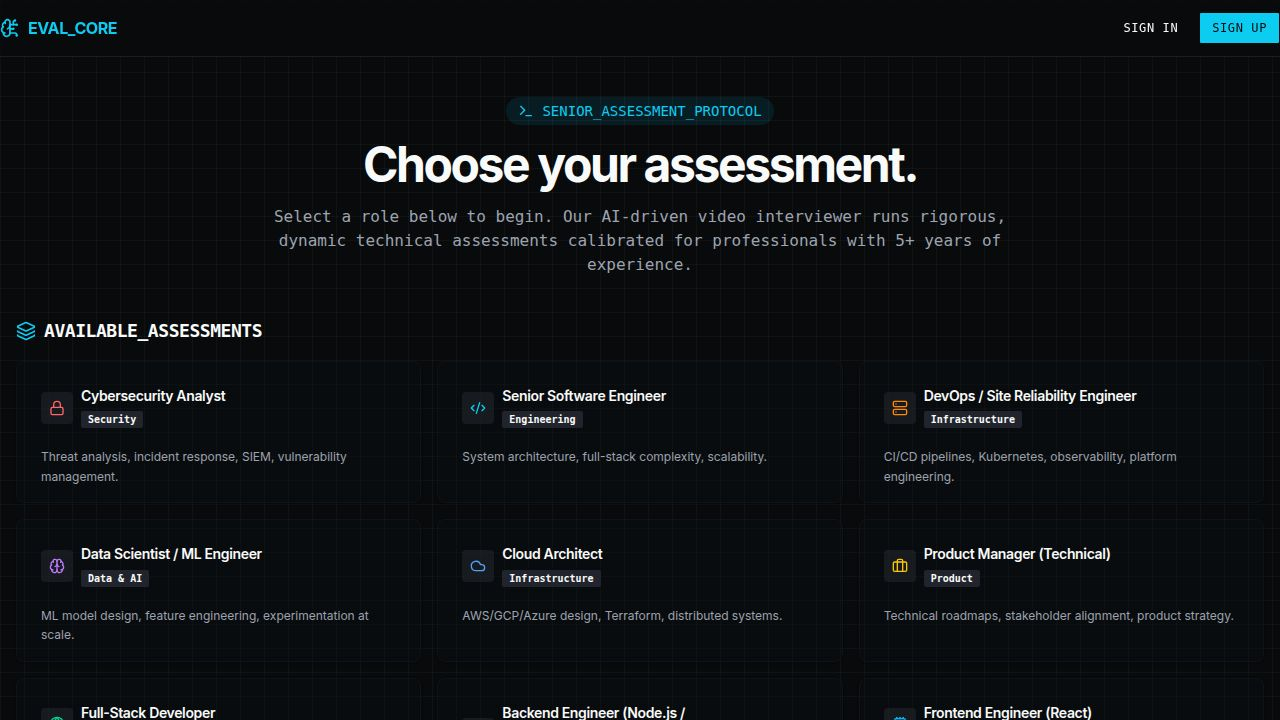
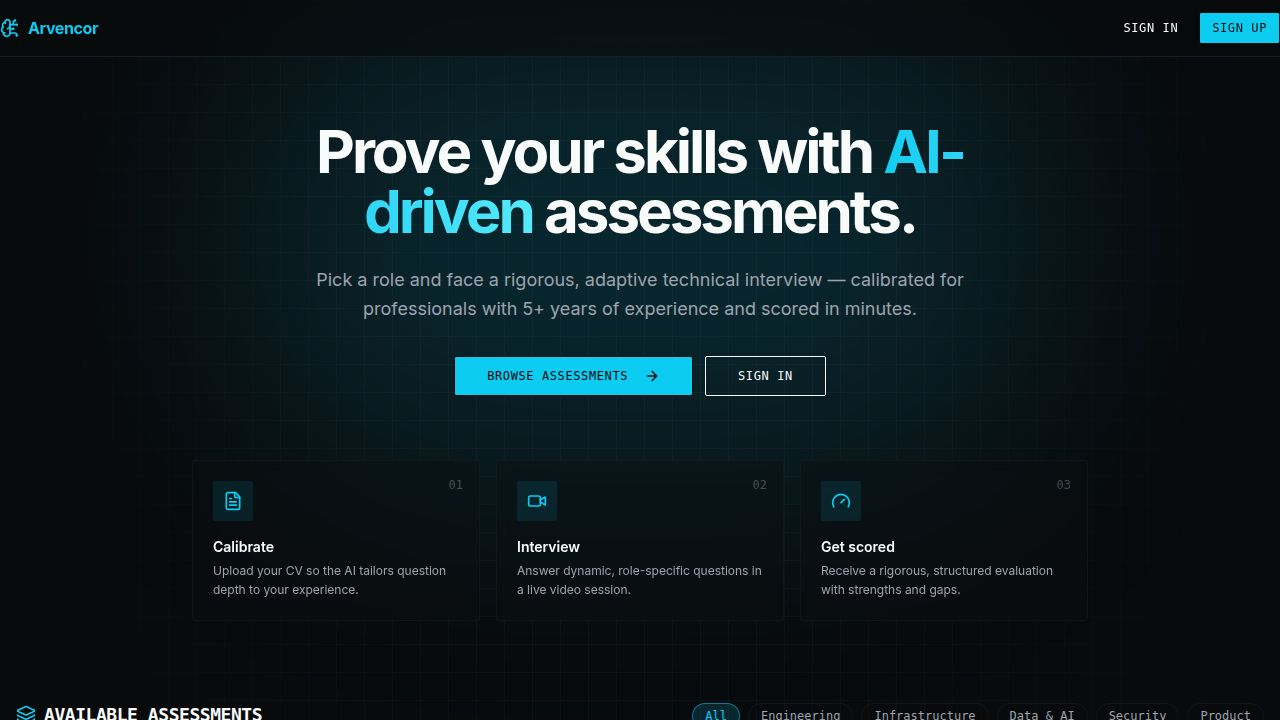
Add assessment spotlight to user dashboard and improve interview loading
Implement an assessment spotlight component on the user dashboard that dynamically displays the status of video interviews. This also includes technical improvements to ensure interview pages load reliably by correctly invalidating queries when session states change.

Replit-Commit-Author: Agent
Replit-Commit-Session-Id: 416f5e57-08bf-41e1-9695-061ada909ee1
Replit-Commit-Checkpoint-Type: full_checkpoint
Replit-Commit-Event-Id: 393e2b5c-662d-44b7-9421-512f4c1a57db
Replit-Commit-Screenshot-Url: https://storage.googleapis.com/screenshot-production-us-central1/97deb9b7-4f07-45b0-adfc-092b34542a0e/416f5e57-08bf-41e1-9695-061ada909ee1/3QtB95c
Replit-Helium-Checkpoint-Created: true

diff --git a/artifacts/assessment-dashboard/src/components/assessment-spotlight.tsx b/artifacts/assessment-dashboard/src/components/assessment-spotlight.tsx
@@ -1,0 +1,123 @@
+import { Card, CardContent } from "@/components/ui/card";
+import { Button } from "@/components/ui/button";
+import { ALL_ROLES } from "../lib/roles";
+import {
+  Video, ArrowRight, RotateCcw, CheckCircle2, PlayCircle, Sparkles, Target,
+} from "lucide-react";
+
+export interface SpotlightSession {
+  id: number;
+  roleTitle: string;
+  status: string;
+}
+
+interface AssessmentSpotlightProps {
+  appliedRole?: string | null;
+  sessions?: SpotlightSession[];
+  onStart: (roleTitle: string) => void;
+  onResume: (sessionId: number) => void;
+  onViewResults: (sessionId: number) => void;
+  isStarting?: boolean;
+}
+
+function matchRole(role: string) {
+  const normalized = role.trim().toLowerCase();
+  return (
+    ALL_ROLES.find((r) => r.title.toLowerCase() === normalized) ??
+    ALL_ROLES.find((r) => r.title.toLowerCase().includes(normalized) || normalized.includes(r.title.toLowerCase()))
+  );
+}
+
+export function AssessmentSpotlight({
+  appliedRole,
+  sessions,
+  onStart,
+  onResume,
+  onViewResults,
+  isStarting,
+}: AssessmentSpotlightProps) {
+  const role = (appliedRole ?? "").trim();
+  if (!role) return null;
+
+  const meta = matchRole(role);
+  const Icon = meta?.icon ?? Target;
+  const accent = meta?.color ?? "text-primary";
+  const desc =
+    meta?.desc ?? "An AI-driven, role-specific technical interview calibrated to your experience.";
+
+  const roleSessions = (sessions ?? []).filter(
+    (s) => s.roleTitle.toLowerCase() === role.toLowerCase()
+  );
+  const sorted = [...roleSessions].sort((a, b) => b.id - a.id);
+  const active = sorted.find(
+    (s) => s.status === "in_progress" || s.status === "pending" || s.status === "completed"
+  );
+  const completed = sorted.find((s) => s.status === "evaluated");
+
+  return (
+    <Card className="relative overflow-hidden border-primary/30 bg-card/60 backdrop-blur">
+      <div className="pointer-events-none absolute -right-16 -top-16 h-56 w-56 rounded-full bg-primary/15 blur-[90px]" />
+      <div className="pointer-events-none absolute inset-x-0 top-0 h-px bg-gradient-to-r from-transparent via-primary/50 to-transparent" />
+      <CardContent className="relative flex flex-col gap-6 p-6 md:flex-row md:items-center md:justify-between md:p-7">
+        <div className="flex items-start gap-4">
+          <div className={`flex h-14 w-14 shrink-0 items-center justify-center rounded-lg bg-secondary/60 ring-1 ring-inset ring-primary/30 ${accent}`}>
+            <Icon className="h-7 w-7" />
+          </div>
+          <div className="min-w-0 space-y-1.5">
+            <div className="flex items-center gap-2 font-mono text-[11px] uppercase tracking-wider text-primary">
+              <Sparkles className="h-3.5 w-3.5" />
+              Your Assessment
+            </div>
+            <h2 className="text-xl font-bold tracking-tight md:text-2xl">{role}</h2>
+            <p className="max-w-md text-sm leading-relaxed text-muted-foreground">{desc}</p>
+            {completed && !active && (
+              <div className="inline-flex items-center gap-1.5 pt-1 font-mono text-xs text-emerald-400">
+                <CheckCircle2 className="h-3.5 w-3.5" />
+                Assessment completed — view your evaluation
+              </div>
+            )}
+            {active && (
+              <div className="inline-flex items-center gap-1.5 pt-1 font-mono text-xs text-amber-400">
+                <PlayCircle className="h-3.5 w-3.5" />
+                Assessment in progress
+              </div>
+            )}
+          </div>
+        </div>
+
+        <div className="flex shrink-0 flex-col gap-2 sm:flex-row md:flex-col lg:flex-row">
+          {active ? (
+            <Button
+              size="lg"
+              className="font-mono shadow-[0_0_20px_rgba(6,182,212,0.25)] hover:shadow-[0_0_30px_rgba(6,182,212,0.45)]"
+              onClick={() => onResume(active.id)}
+            >
+              <PlayCircle className="mr-2 h-4 w-4" /> Resume Assessment
+            </Button>
+          ) : (
+            <Button
+              size="lg"
+              className="font-mono shadow-[0_0_20px_rgba(6,182,212,0.25)] hover:shadow-[0_0_30px_rgba(6,182,212,0.45)]"
+              onClick={() => onStart(role)}
+              disabled={isStarting}
+            >
+              <Video className="mr-2 h-4 w-4" />
+              {isStarting ? "Starting…" : completed ? "Retake Assessment" : "Start Video Interview"}
+              {!isStarting && <ArrowRight className="ml-2 h-4 w-4" />}
+            </Button>
+          )}
+          {completed && (
+            <Button
+              size="lg"
+              variant="outline"
+              className="border-border/70 font-mono"
+              onClick={() => onViewResults(completed.id)}
+            >
+              <RotateCcw className="mr-2 h-4 w-4" /> View Results
+            </Button>
+          )}
+        </div>
+      </CardContent>
+    </Card>
+  );
+}

diff --git a/artifacts/assessment-dashboard/src/pages/dashboard.tsx b/artifacts/assessment-dashboard/src/pages/dashboard.tsx
@@ -5,6 +5,7 @@ import { useGetDashboardStats, useListSessions, useCreateSession } from "@worksp
 import { Navbar } from "../components/navbar";
 import { Footer } from "../components/footer";
 import { RoleCard } from "../components/role-card";
+import { AssessmentSpotlight } from "../components/assessment-spotlight";
 import { ALL_ROLES, ROLE_CATEGORIES, type RoleCategory } from "../lib/roles";
 import { Card, CardContent } from "@/components/ui/card";
 import { Button } from "@/components/ui/button";
@@ -76,6 +77,14 @@ export default function Dashboard() {
     { icon: ShieldAlert, label: "HIRE_RATE", value: stats?.hireRate != null ? `${stats.hireRate.toFixed(0)}%` : "--" },
   ];
 
+  if (candidate && !candidate.profileComplete) {
+    return (
+      <div className="flex min-h-screen items-center justify-center bg-background font-mono text-sm text-muted-foreground">
+        REDIRECTING_TO_PROFILE…
+      </div>
+    );
+  }
+
   return (
     <div className="relative flex min-h-screen flex-col bg-background">
       <Navbar />
@@ -108,6 +117,18 @@ export default function Dashboard() {
             </div>
           </div>
         </div>
+
+        {/* Assessment Spotlight — tied to the role the candidate applied for */}
+        {candidate?.role && (
+          <AssessmentSpotlight
+            appliedRole={candidate.role}
+            sessions={sessions}
+            onStart={handleRoleClick}
+            onResume={(sessionId) => setLocation(`/interview/${sessionId}`)}
+            onViewResults={(sessionId) => setLocation(`/results/${sessionId}`)}
+            isStarting={createSession.isPending}
+          />
+        )}
 
         {/* Stats */}
         <div className="grid grid-cols-1 gap-4 md:grid-cols-3">

diff --git a/artifacts/assessment-dashboard/src/pages/interview.tsx b/artifacts/assessment-dashboard/src/pages/interview.tsx
@@ -1,6 +1,7 @@
 import { useState, useEffect } from "react";
 import { useLocation, useParams } from "wouter";
-import { useGetSession, useGetSessionQuestions, useSubmitAnswer, useEvaluateSession, useGenerateSessionQuestions, getGetSessionQuestionsQueryKey } from "@workspace/api-client-react";
+import { useGetSession, useGetSessionQuestions, useSubmitAnswer, useEvaluateSession, useGenerateSessionQuestions, getGetSessionQuestionsQueryKey, getGetSessionQueryKey } from "@workspace/api-client-react";
+import { useQueryClient } from "@tanstack/react-query";
 import { Card } from "@/components/ui/card";
 import { Button } from "@/components/ui/button";
 import { Textarea } from "@/components/ui/textarea";
@@ -14,7 +15,8 @@ export default function Interview() {
   const id = parseInt(sessionId!, 10);
   
   const { videoRef, error: cameraError } = useMediaStream();
-  
+  const queryClient = useQueryClient();
+
   const { data: session } = useGetSession(id);
   const { data: questions, isLoading: isLoadingQuestions } = useGetSessionQuestions(id, {
     query: { enabled: !!id && !!session?.questionsGenerated, queryKey: getGetSessionQuestionsQueryKey(id) },
@@ -31,7 +33,15 @@ export default function Interview() {
   // Auto-generate questions if not generated yet
   useEffect(() => {
     if (session && !session.questionsGenerated && !generateQuestions.isPending) {
-      generateQuestions.mutate({ id });
+      generateQuestions.mutate(
+        { id },
+        {
+          onSuccess: () => {
+            queryClient.invalidateQueries({ queryKey: getGetSessionQueryKey(id) });
+            queryClient.invalidateQueries({ queryKey: getGetSessionQuestionsQueryKey(id) });
+          },
+        }
+      );
     }
   }, [session]);
 

diff --git a/.agents/memory/query-invalidation-on-server-flag.md b/.agents/memory/query-invalidation-on-server-flag.md
@@ -1,0 +1,10 @@
+---
+name: Invalidate owning query when a mutation flips a server-side gating flag
+description: Why client loading gates can hang forever after a mutation, and the fix in this codegen/react-query setup.
+---
+
+When a UI loading gate keys off a server field that a mutation flips (e.g. an interview page that renders a loader until `session.questionsGenerated === true`), the mutation's success handler MUST invalidate the query that owns that field. The generated react-query hooks do not auto-refetch related queries.
+
+**Why:** the interview page gated on `session.questionsGenerated`; the auto-fire "generate questions" mutation set it `true` server-side, but nothing invalidated the `getSession` query, so the client copy stayed `false` and the page was stuck on the loader forever. An e2e test caught it; typecheck/curl could not.
+
+**How to apply:** after any mutation that changes a field another query reads (especially a field a render gate depends on), call `queryClient.invalidateQueries({ queryKey: getGet<Resource>QueryKey(id) })` for each affected resource. The generated key getters (`getGet...QueryKey`) are exported from `@workspace/api-client-react`.

diff --git a/.agents/memory/MEMORY.md b/.agents/memory/MEMORY.md
@@ -1,2 +1,3 @@
 - [Orval + react-query v5 queryKey](orval-react-query-v5.md) — generated query hooks fail typecheck on `{ query: { enabled } }` (queryKey now required); drop options on path hooks or pass the generated key getter.
 - [Clerk → numeric candidate bridge](clerk-candidate-bridge.md) — Clerk maps to numeric candidate rows via `clerkUserId`; `/candidates/me` only, cookie auth, ownership-check session routes (404 on mismatch).
+- [Invalidate query on server flag flip](query-invalidation-on-server-flag.md) — render gates keyed on a server field hang forever unless the mutation that flips it invalidates the owning query; generated hooks don't auto-refetch.